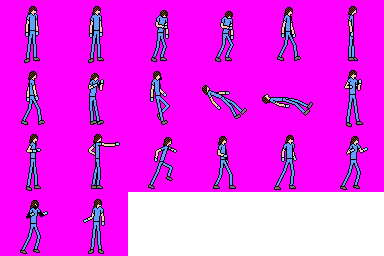
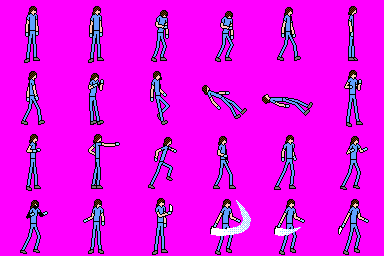
Took way too long to create the sprites for this CombatAction. In other new, everything is working as expected.

Changed region(s): [[0.3125, 0.75, 1.0, 1.0]]

diff --git a/src/combat/actions/knife_cleave.cpp b/src/combat/actions/knife_cleave.cpp
@@ -1,31 +1,88 @@
+#include <cstddef>
 #include <raylib.h>
 #include "enums.h"
+#include "base/combatant.h"
 #include "base/combat_action.h"
+#include "system/sprite_atlas.h"
+#include "utils/animation.h"
 #include "combat/combatants/party/mary.h"
 #include "combat/actions/knife_cleave.h"
 
 
 KnifeCleave::KnifeCleave(Mary *user): 
   CombatAction(ActionID::KNIFE_CLEAVE, ActionType::OFFENSE_HP, user, 
-               0.20, 0.10, 0.25) 
+               0.20, 0.05, 0.25) 
 {
   name = "Knife Cleave";
 
-  hitbox.scale = {28, 8};
+  hitbox.scale = {28, 24};
   hitbox.offset = {-14 + (14.0f * user->direction), -50};
   user->rectExCorrection(hitbox);
+
+  data.damage_type = DamageType::LIFE;
+  data.calulation = DamageType::LIFE;
+
+  data.stun_time = 0.5;
+  data.stun_type = StunType::NORMAL;
+
+  data.knockback = 45.0;
+  data.hit_stop = 0.2;
+
+  data.assailant = user;
+  
+  this->atlas = &Mary::atlas;
+  user->sprite = &atlas->sprites.at(20);
+  updateAnimFrameDuration();
+}
+
+KnifeCleave::~KnifeCleave() {
+  user->animation = NULL;
+}
+
+void KnifeCleave::updateAnimFrameDuration() {
+  anim_end.frame_duration = end_time * 0.5;
 }
 
 void KnifeCleave::windUp() {
-
+  bool end_phase = state_clock == 1.0;
+  if (end_phase) {
+    user->sprite = &atlas->sprites[21];
+  }
 }
 
 void KnifeCleave::action() {
+  if (attack_connected) {
+    return;
+  }
 
+  for (Combatant *combatant : Combatant::existing_combatants) {
+    if (combatant->intangible) {
+      continue;
+    }
+
+    if (combatant->team == user->team) {
+      continue;
+    }
+
+    if (combatant->state == CombatantState::DEAD) {
+      continue;
+    }
+
+    Rectangle *hurtbox = &combatant->hurtbox.rect;
+    if (CheckCollisionRecs(hitbox.rect, *hurtbox)) {
+      data.hitbox = &hitbox.rect;
+      combatant->takeDamage(data);
+      attack_connected = true;
+
+      end_time = 0.125;
+      updateAnimFrameDuration();
+      break;
+    }
+  } 
 }
 
 void KnifeCleave::endLag() {
-
+  SpriteAnimation::play(user->animation, &anim_end, false);
 }
 
 void KnifeCleave::drawDebug() {

diff --git a/include/combat/actions/knife_cleave.h b/include/combat/actions/knife_cleave.h
@@ -1,12 +1,18 @@
 #pragma once
 #include "base/combat_action.h"
+#include "data/damage.h"
 #include "data/rect_ex.h"
+#include "data/animation.h"
+#include "system/sprite_atlas.h"
 #include "combat/combatants/party/mary.h"
 
 
 class KnifeCleave : public CombatAction {
 public:
   KnifeCleave(Mary *user);
+  ~KnifeCleave();
+
+  void updateAnimFrameDuration();
 
   void windUp() override;
   void action() override;
@@ -15,4 +21,10 @@ public:
   void drawDebug() override;
 private:
   RectEx hitbox;
+  DamageData data;
+
+  bool attack_connected = false;
+
+  SpriteAtlas *atlas;
+  Animation anim_end = {{22, 23}, 0.0};
 };

diff --git a/include/combat/combatants/party/mary.h b/include/combat/combatants/party/mary.h
@@ -52,6 +52,8 @@ public:
 
   void draw() override;
   void drawDebug() override;
+
+  static SpriteAtlas atlas;
 private:
   static bool controllable;
   CombatKeybinds *keybinds;
@@ -83,6 +85,4 @@ private:
 
   GSSpriteSet gs_set = {14, 8, 15};
   EvadeSpriteSet ev_set = {16, 17, 16, 19, 18};
-
-  static SpriteAtlas atlas;
 };
